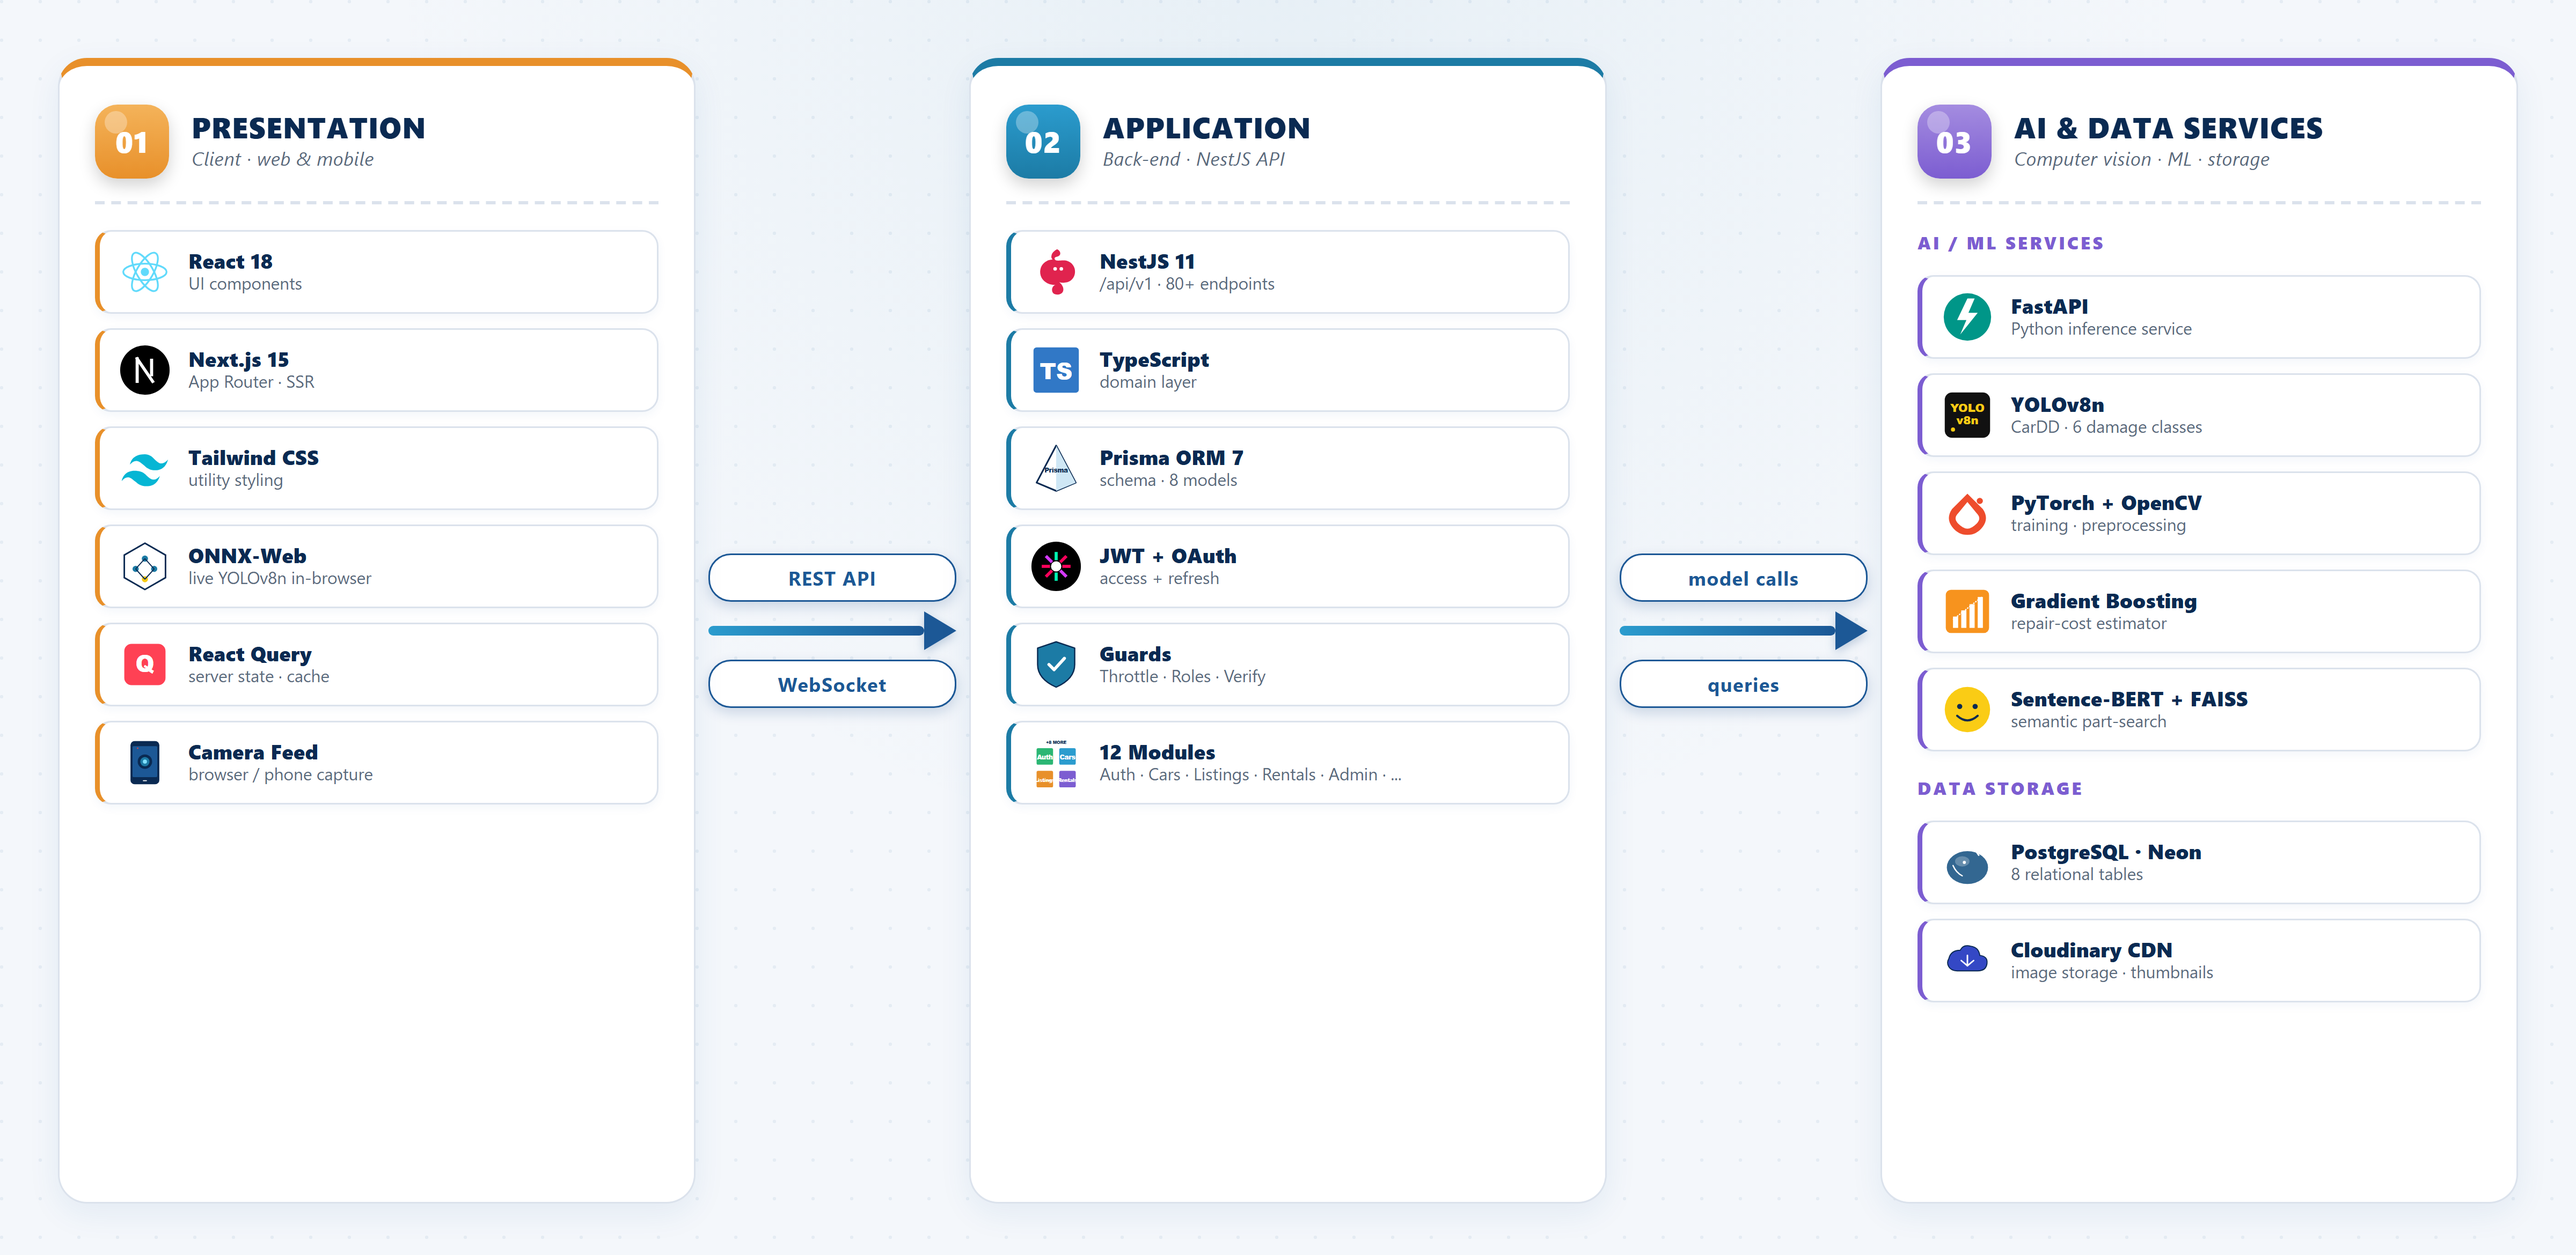
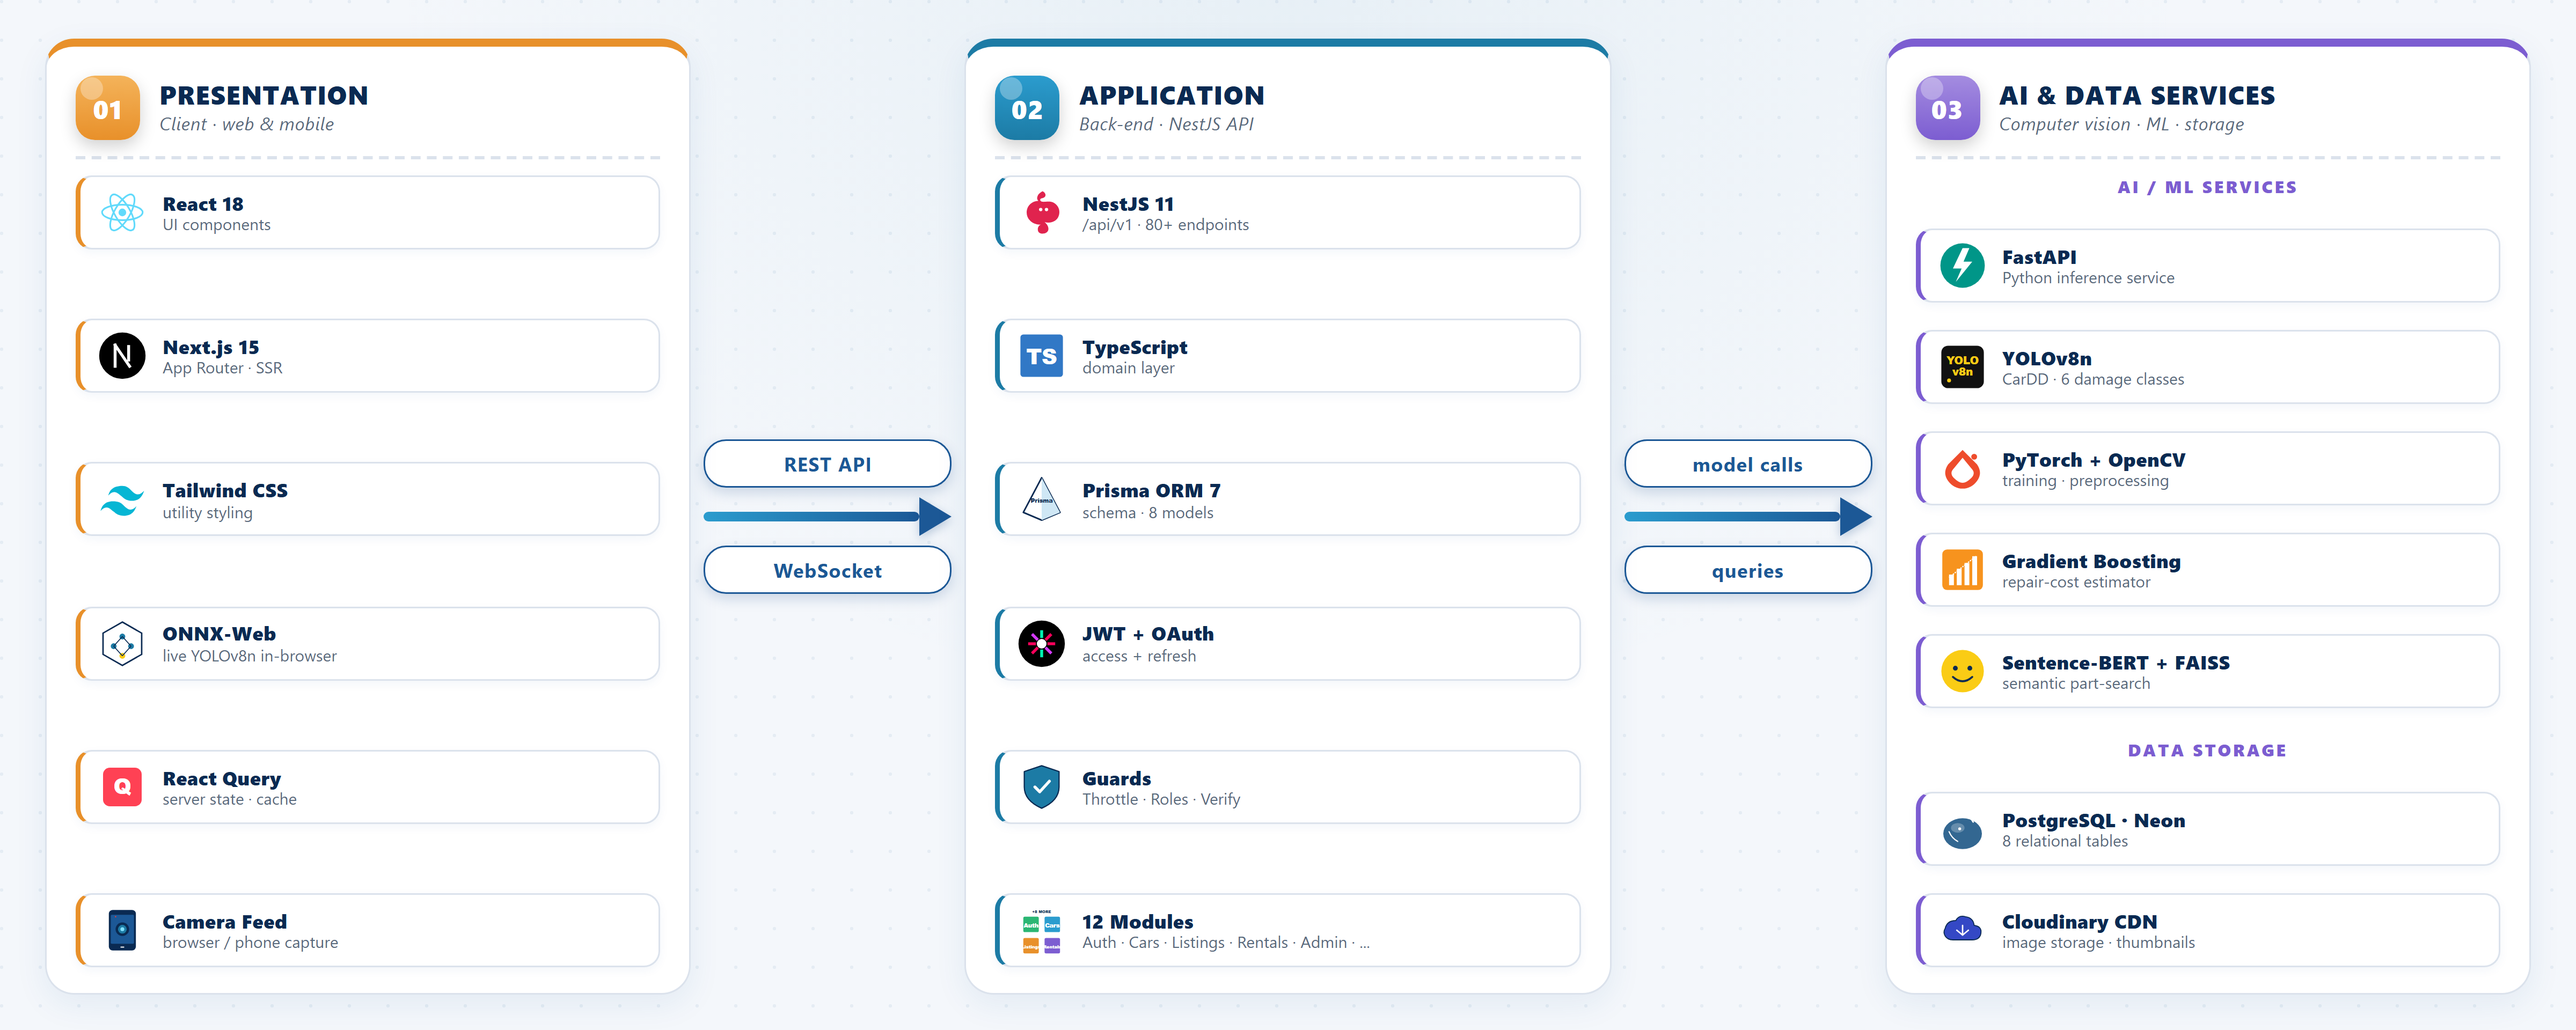
Refactor canvas layout and styling for improved visual consistency; update system architecture image

diff --git a/SYSTEM_ARCHITECTURE_FOR_POSTER.html b/SYSTEM_ARCHITECTURE_FOR_POSTER.html
@@ -31,13 +31,13 @@
   html,body{background:#222;font-family:'Segoe UI',Helvetica,Arial,sans-serif;color:var(--ink)}
 
   .canvas{
-    width:1600px;height:780px;margin:30px auto;
+    width:1600px;height:640px;margin:30px auto;
     background:
       radial-gradient(ellipse at 50% 0%,rgba(28,123,165,.06) 0%,transparent 50%),
       var(--bg);
     box-shadow:0 0 40px rgba(0,0,0,.5);
     overflow:hidden;position:relative;
-    padding:36px 36px 32px;
+    padding:24px 28px 22px;
   }
   .canvas::before{
     content:'';position:absolute;inset:0;
@@ -58,7 +58,7 @@
     background:var(--paper);
     border:1.5px solid var(--line);
     border-radius:18px;
-    padding:24px 22px 22px;
+    padding:18px 18px 16px;
     box-shadow:0 6px 20px rgba(28,88,150,.08);
     display:flex;flex-direction:column;
     position:relative;
@@ -69,50 +69,53 @@
 
   /* HEADER inside each layer */
   .layer-head{
-    display:flex;align-items:center;gap:14px;
-    padding-bottom:14px;margin-bottom:16px;
+    display:flex;align-items:center;gap:12px;
+    padding-bottom:10px;margin-bottom:10px;
     border-bottom:2px dashed var(--line);
   }
   .layer-num{
-    flex:0 0 46px;width:46px;height:46px;border-radius:14px;
+    flex:0 0 40px;width:40px;height:40px;border-radius:12px;
     display:flex;align-items:center;justify-content:center;
-    color:#fff;font-weight:900;font-size:18px;letter-spacing:.5px;
+    color:#fff;font-weight:900;font-size:16px;letter-spacing:.5px;
     box-shadow:0 4px 10px rgba(0,0,0,.18);
   }
   .l1 .layer-num{background:linear-gradient(180deg,#f4b35a,var(--accent-1))}
   .l2 .layer-num{background:linear-gradient(180deg,var(--cyan-2),var(--accent-2))}
   .l3 .layer-num{background:linear-gradient(180deg,#a48ce0,var(--accent-3))}
   .layer-title h3{
-    color:var(--ink);font-size:18px;font-weight:800;letter-spacing:.5px;line-height:1.1;
+    color:var(--ink);font-size:16px;font-weight:800;letter-spacing:.5px;line-height:1.1;
   }
-  .layer-title .sub{color:var(--muted);font-size:11.5px;font-style:italic;letter-spacing:.3px;margin-top:2px}
+  .layer-title .sub{color:var(--muted);font-size:11px;font-style:italic;letter-spacing:.3px;margin-top:1px}
 
-  /* component list */
-  .comp-list{display:flex;flex-direction:column;gap:9px;flex:1}
+  /* component list — spreads to fill column evenly */
+  .comp-list{
+    display:flex;flex-direction:column;flex:1;
+    justify-content:space-between;gap:6px;
+  }
 
   .comp{
     background:#fff;
     border:1.5px solid var(--line);
     border-radius:10px;
-    padding:9px 12px;
-    display:flex;align-items:center;gap:11px;
+    padding:7px 11px;
+    display:flex;align-items:center;gap:10px;
     box-shadow:0 2px 6px rgba(28,88,150,.05);
-    transition:transform .15s;
   }
   .l1 .comp{border-left:3px solid var(--accent-1)}
   .l2 .comp{border-left:3px solid var(--accent-2)}
   .l3 .comp{border-left:3px solid var(--accent-3)}
 
-  .comp .logo{flex:0 0 32px;width:32px;height:32px;display:flex;align-items:center;justify-content:center}
-  .comp .logo svg{width:32px;height:32px}
-  .comp .meta{display:flex;flex-direction:column;line-height:1.22;flex:1;min-width:0}
-  .comp .name{color:var(--ink);font-weight:800;font-size:12.5px;letter-spacing:.2px}
-  .comp .role{color:var(--muted);font-size:10.5px}
+  .comp .logo{flex:0 0 30px;width:30px;height:30px;display:flex;align-items:center;justify-content:center}
+  .comp .logo svg{width:30px;height:30px}
+  .comp .meta{display:flex;flex-direction:column;line-height:1.2;flex:1;min-width:0}
+  .comp .name{color:var(--ink);font-weight:800;font-size:12px;letter-spacing:.2px}
+  .comp .role{color:var(--muted);font-size:10px}
 
   /* sub-section header inside layer 3 */
   .sub-head{
-    color:var(--accent-3);font-size:11px;font-weight:800;letter-spacing:1.4px;
-    margin:6px 0 4px;text-transform:uppercase;
+    color:var(--accent-3);font-size:10.5px;font-weight:800;letter-spacing:1.4px;
+    margin:2px 0 2px;text-transform:uppercase;
+    text-align:center;
   }
   .sub-head:first-child{margin-top:0}
 
